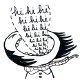
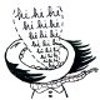
resized footer images to 100px, added new images

diff --git a/style.css b/style.css
@@ -100,7 +100,7 @@ a {
 }
 /* footer */
 footer {
-	height: 7em;
+	height: 110px;
 	padding-top: 2em;
 	background-position: 98% 98%;
 	background-repeat: no-repeat;
@@ -129,13 +129,24 @@ footer nav a {text-decoration:none; display:block; text-align:center; color: #e1
 .ft_05 {background-image: url('images/footer/almost jesen.jpg'); background-position: 98% 98%}
 .ft_06 {background-image: url('images/footer/Hi hi hi mala.jpg'); background-position: 98% 98%}
 .ft_07 {background-image: url('images/footer/nesto.jpg'); background-position: 98% 98%}
-.ft_08 {background-image: url('images/footer/zecica mala.jpg'); background-position: 98% 98%}
+.ft_08 {background-image: url('images/footer/hello.jpg'); background-position: 98% 98%}
 .ft_09 {background-image: url('images/footer/cao.jpg'); background-position: 98% 98%}
 .ft_10 {background-image: url('images/footer/kafica.jpg'); background-position: 98% 98%}
 .ft_11 {background-image: url('images/footer/ring.jpg'); background-position: 98% 98%}
 .ft_12 {background-image: url('images/footer/cvidze.jpg'); background-position: 98% 98%}
 .ft_13 {background-image: url('images/footer/klupica.jpg'); background-position: 98% 98%}
 .ft_14 {background-image: url('images/footer/romantika.jpg'); background-position: 98% 98%}
+.ft_15 {background-image: url('images/footer/dobar dan.jpg'); background-position: 98% 98%}
+.ft_16 {background-image: url('images/footer/lepo je.jpg'); background-position: 98% 98%}
+.ft_17 {background-image: url('images/footer/ljub.jpg'); background-position: 98% 98%}
+.ft_18 {background-image: url('images/footer/message mala.jpg'); background-position: 98% 98%}
+.ft_19 {background-image: url('images/footer/njama.jpg'); background-position: 98% 98%}
+.ft_20 {background-image: url('images/footer/oblak.jpg'); background-position: 98% 98%}
+.ft_21 {background-image: url('images/footer/skrivanje.jpg'); background-position: 98% 98%}
+.ft_22 {background-image: url('images/footer/zdravo.jpg'); background-position: 98% 98%}
+.ft_23 {background-image: url('images/footer/Arty farty.jpg'); background-position: 98% 98%}
+.ft_24 {background-image: url('images/footer/1.jpg'); background-position: 98% 98%}
+
 
 /* 
  * aha.jpg           hekleraj.jpg       lalala.jpg     stigla jesen.jpg

diff --git a/scripts/footer.js b/scripts/footer.js
@@ -1,7 +1,7 @@
 
 $('footer').addClass(function(i, c) {
 		var rndClass = "ft_";
-		var rnd = 1 + Math.floor(Math.random() * 14);
+		var rnd = 1 + Math.floor(Math.random() * 24);
 		if (rnd < 10) {
 			rndClass += "0";
 		}
